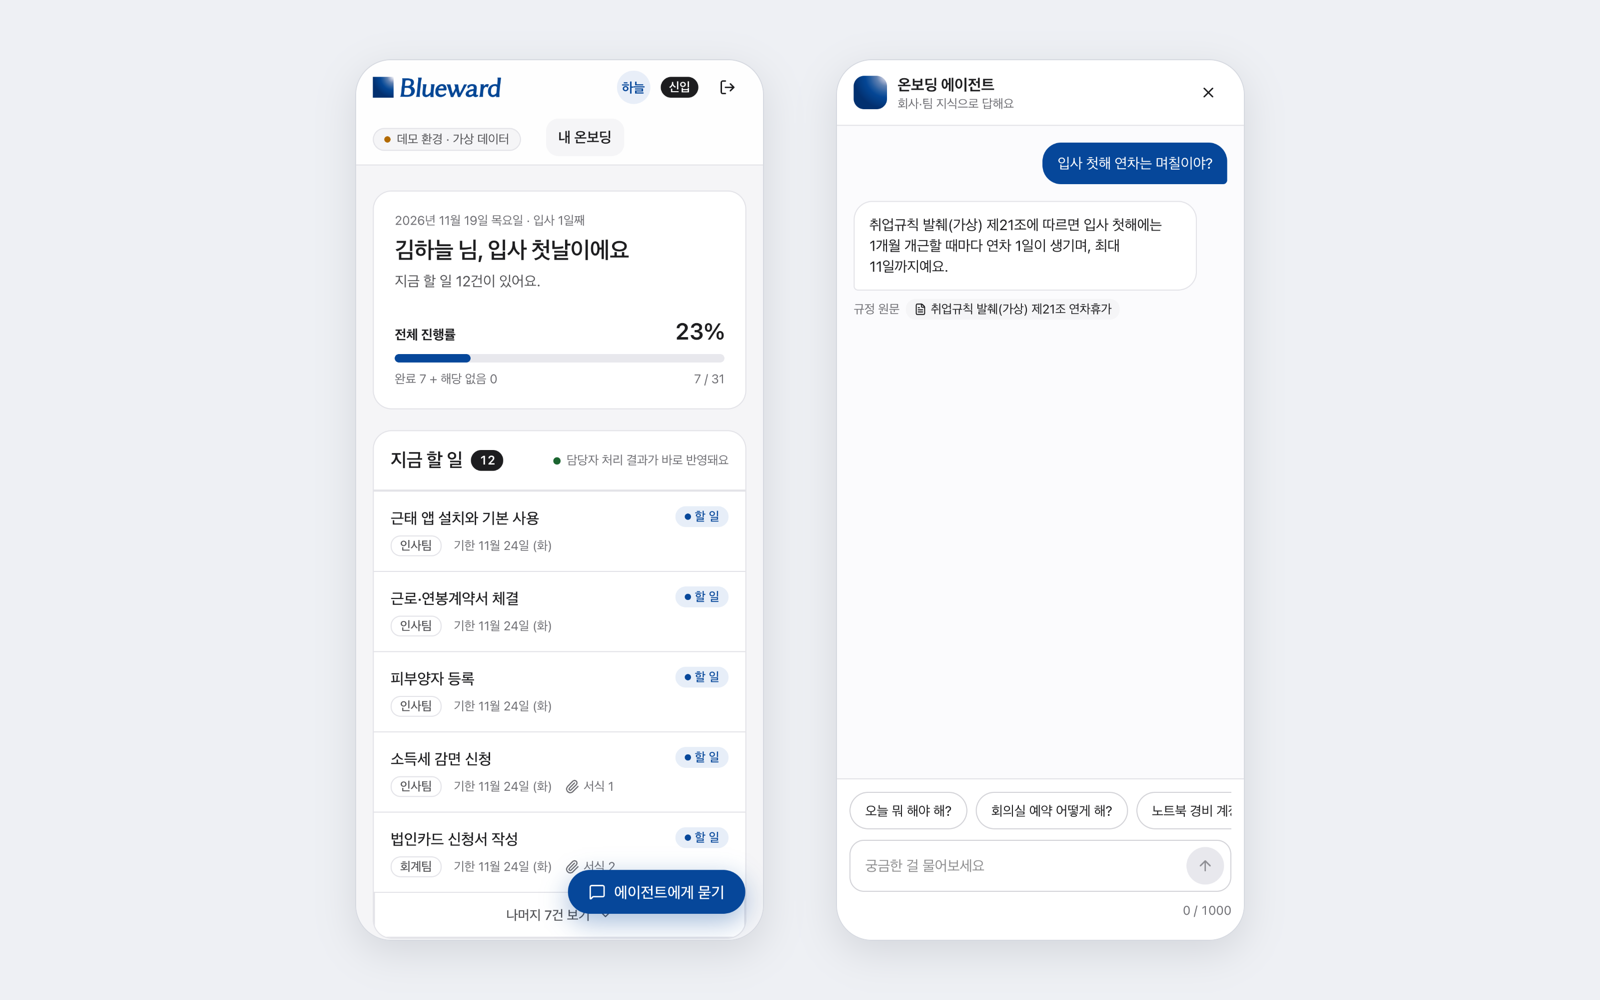
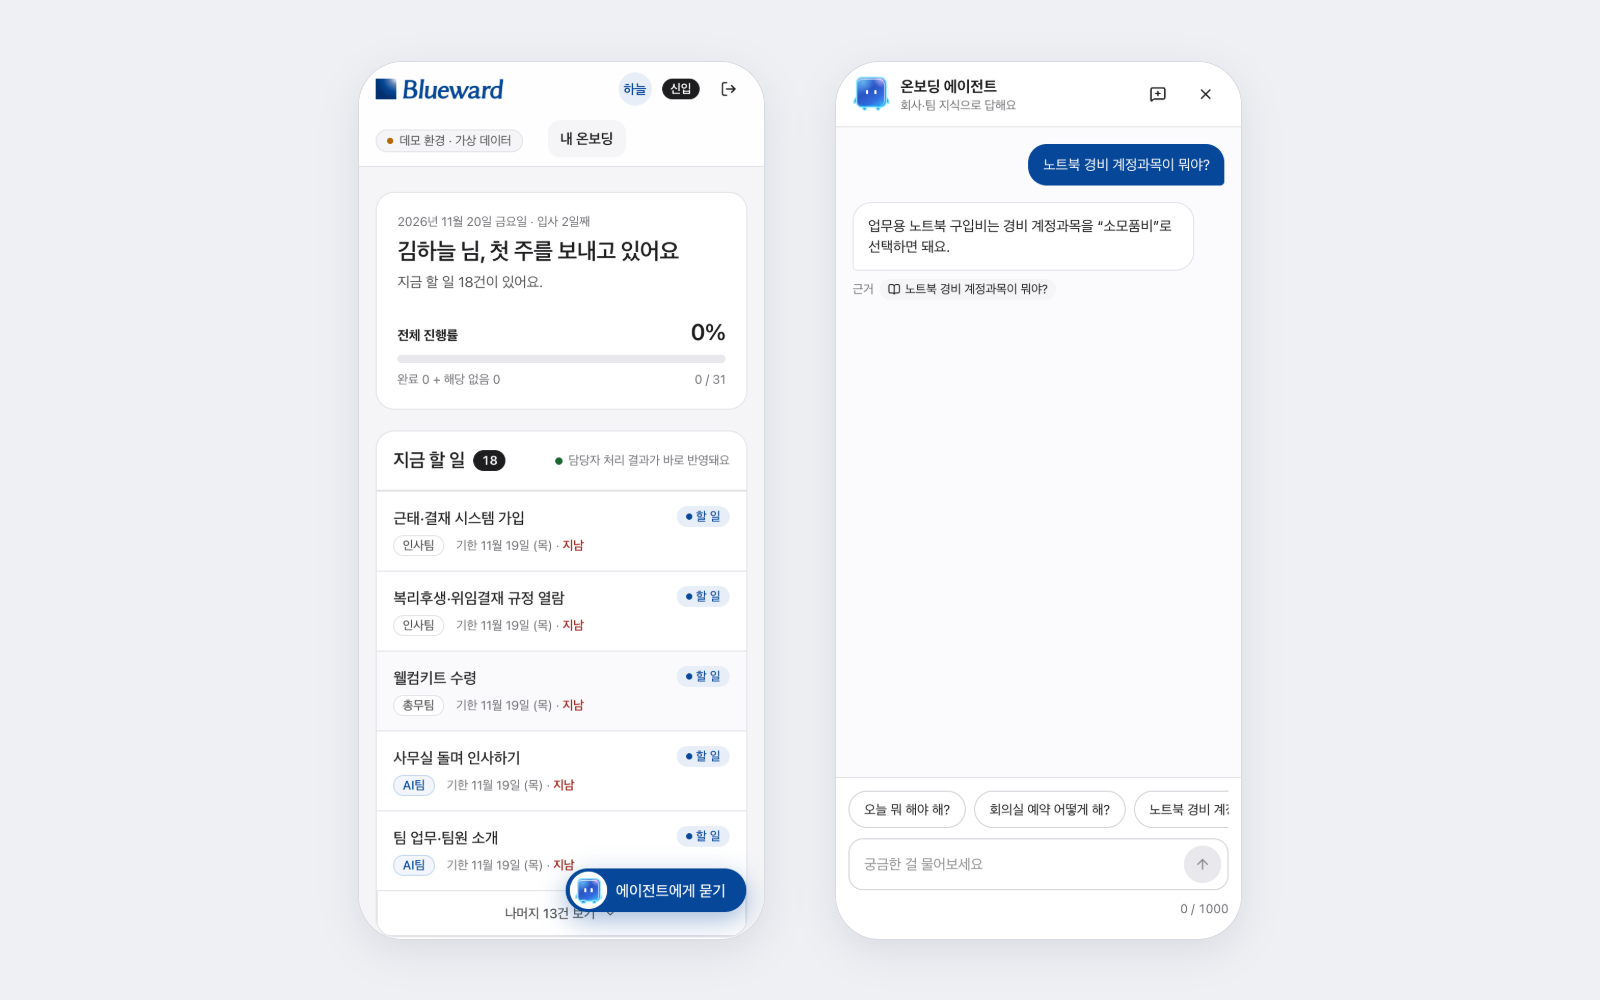
docs: update the README for v0.2.0 with the jelly cube mascot (#95)
- Production version v0.2.0 and a "what changed in v0.2.0" table
  (mascot, new chat, ops hire tab, phone-width fixes, document name fix)
- New "에이전트 마스코트" section with poses, places and two images
- Retook the hero, mobile and ops hire-tab screenshots on production v0.2.0
- Removed the "만든 방식" section

diff --git a/README.md b/README.md
@@ -4,13 +4,23 @@
 
 | 운영 버전 | 접속 주소 | 운영 기간 |
 |---|---|---|
-| `v0.1.0` (2026-11-19) | https://blueward-onboarding.web.app | 2026-11-19 ~ 2026-12-19 |
+| `v0.2.0` (2026-11-20) | https://blueward-onboarding.web.app | 2026-11-19 ~ 2026-12-19 |
 
 사내 AI Agent 경진대회 출품작입니다. 화면에는 회사 CI(Blueward)를 썼고, 사람·계정·과제·지식·규정 문서는 전부 가상 데이터입니다. 역할별 계정과 체험 순서는 [심사위원 안내](docs/judge-guide.md)를 보면 됩니다.
 
-![신입 홈: 입사일·첫 주·첫 달 타임라인과 오른쪽 에이전트 채팅. 규정 조항을 근거로 답하고 출처를 붙인다](docs/images/newhire-home-chat.png)
+![신입 홈: 입사일·첫 주·첫 달 타임라인과 오른쪽 에이전트 채팅. 젤리 큐브 마스코트가 채팅 머리에 있고, 규정 조항을 근거로 답하고 출처를 붙인다](docs/images/newhire-home-chat.png)
 
-<sub>운영 v0.1.0 화면. 신입이 "결혼하면 경조금 얼마 받아?"라고 묻자 에이전트가 복리후생 규정(가상) 제8조를 찾아 답하고 출처를 달았습니다. 이 문서의 화면은 모두 운영 환경에서 가상 데이터로 찍었습니다.</sub>
+<sub>운영 v0.2.0 화면. 신입이 "입사 첫해 연차는 며칠이야?"라고 묻자 에이전트가 취업규칙 발췌(가상) 제21조를 찾아 답하고 출처를 달았습니다. 채팅 머리의 젤리 큐브가 온보딩 에이전트입니다. 따로 적지 않은 화면은 모두 운영 환경에서 가상 데이터로 찍었습니다.</sub>
+
+## v0.2.0에서 달라진 점
+
+| 구분 | 내용 |
+|---|---|
+| 새 마스코트 | 온보딩 에이전트의 얼굴로 젤리 큐브 캐릭터를 넣었습니다. 로그인 화면, 채팅, 모바일 "에이전트에게 묻기" 버튼, 모든 과제 완료 화면, 브라우저 탭 아이콘에 나옵니다([아래](#에이전트-마스코트)) |
+| 채팅 "새 대화" | 신입 채팅 위쪽의 "새 대화" 버튼으로 새로고침 없이 대화를 비우고 처음부터 물을 수 있습니다. 대화는 저장하지 않으므로 누르기 전에 한 번 확인합니다 |
+| 업무함 "입사자별" 탭 | 경영지원 담당자가 부서 업무함에서 신입별 진행률과 확인 대기를 보고, 신입 줄의 "과제 추가"로 그 신입에게만 과제를 줍니다 |
+| 모바일 화면 | 휴대폰 폭(360·390px)에서 모든 화면이 가로로 밀리지 않게 고쳤습니다. 좁은 화면에서는 표의 보조 칸을 제목 아래 한 줄로 옮깁니다 |
+| 규정 문서 올리기 | 문서 이름을 먼저 입력하고 파일을 골라도 입력한 이름이 유지됩니다(전에는 파일 이름으로 덮어써짐) |
 
 ## 왜 만들었나
 
@@ -31,7 +41,8 @@
 
 - 과제 상세에서 Word·Excel·PDF 서식을 내려받아 작성 후 제출. 원본 서류는 받지 않고 제출 여부만 확인
 - 채팅은 게시된 사내 지식, 규정 문서 조항, 본인 과제만 근거로 쓰고 출처를 표시. 근거가 없으면 "확인되지 않은 내용이에요."라고 답하고, 담당자에게 넘길지는 신입이 정함
-- 휴대폰 화면 지원(채팅은 "에이전트에게 묻기" 버튼)
+- "새 대화" 버튼으로 대화를 비우고 다시 시작. 대화 내용은 어디에도 저장하지 않음
+- 휴대폰 화면 지원(채팅은 마스코트가 붙은 "에이전트에게 묻기" 버튼)
 
 <table>
   <tr>
@@ -40,7 +51,7 @@
   </tr>
   <tr>
     <td width="50%"><img src="docs/images/newhire-unanswered.png" alt="근거가 없는 질문에 확인되지 않은 내용이라고 답하고 담당자에게 등록 요청 버튼을 보여 줌"><br><sub>근거가 없으면 지어내지 않고, 신입이 원하면 담당자에게 등록 요청</sub></td>
-    <td width="50%"><img src="docs/images/newhire-mobile.png" alt="모바일 신입 화면과 모바일 채팅: 취업규칙 조항을 근거로 연차를 답함"><br><sub>모바일: 지금 할 일과 채팅(취업규칙 제21조 근거)</sub></td>
+    <td width="50%"><img src="docs/images/newhire-mobile.png" alt="모바일 신입 화면과 모바일 채팅: 마스코트가 붙은 에이전트에게 묻기 버튼, 등록된 지식을 근거로 노트북 경비 계정과목을 답함"><br><sub>모바일: 지금 할 일과 "에이전트에게 묻기", 채팅(등록된 지식 근거)</sub></td>
   </tr>
 </table>
 
@@ -51,16 +62,20 @@
 - 회사 공통 규정 문서(docx·pdf)를 올리면 조항 단위로 나뉘어 신입 채팅의 근거가 됨
 - "지식 초안 만들기"로 조항 근거 질문·답 초안을 5개까지 생성. 검토하고 게시해야 신입에게 보임
 - 온보딩 과제 화면에서 부서 과제를 추가·수정·보관하고 서식 첨부. 진행 중인 신입이 있으면 제목과 안내문만 수정 가능하고, 새 과제는 그 뒤에 시작하는 신입부터 적용
-- 신입 한 명에게만 과제 추가 가능
+- "입사자별" 탭에서 신입마다 우리 부서 과제 진행률과 확인 대기를 보고, 그 줄의 "과제 추가"로 그 신입에게만 과제 추가
 
 <table>
   <tr>
-    <td width="50%"><img src="docs/images/ops-inbox.png" alt="총무팀 업무함: 신입이 제출한 명함 신청을 확인하거나 보완 요청"><br><sub>부서 업무함: 제출 내용을 보고 확인(완료 처리) 또는 보완 요청</sub></td>
-    <td width="50%"><img src="docs/images/ops-documents.png" alt="규정 문서: 복리후생 규정(가상)을 조항 16개로 나눠 둔 화면"><br><sub>규정 문서: 올린 문서를 조항으로 나누고 "지식 초안 만들기"</sub></td>
+    <td width="50%"><img src="docs/images/ops-inbox.png" alt="총무팀 업무함: 신입이 제출한 명함 신청을 확인하거나 보완 요청"><br><sub>부서 업무함: 제출 내용을 보고 확인(완료 처리) 또는 보완 요청(v0.1.0 화면)</sub></td>
+    <td width="50%"><img src="docs/images/ops-hires.png" alt="총무팀 업무함 입사자별 탭: 신입별 총무팀 과제 진행률, 확인 대기, 과제 추가 버튼"><br><sub>입사자별 탭: 신입별 진행률을 보고 그 줄에서 "과제 추가"</sub></td>
   </tr>
   <tr>
+    <td width="50%"><img src="docs/images/ops-documents.png" alt="규정 문서: 복리후생 규정(가상)을 조항 16개로 나눠 둔 화면"><br><sub>규정 문서: 올린 문서를 조항으로 나누고 "지식 초안 만들기"</sub></td>
     <td width="50%"><img src="docs/images/ops-knowledge-drafts.png" alt="지식 관리: 규정 조항을 근거로 만든 AI 작성 초안 목록"><br><sub>지식 관리: 근거 조항이 붙은 "AI 작성" 초안을 검토하고 게시</sub></td>
+  </tr>
+  <tr>
     <td width="50%"><img src="docs/images/staff-tasks.png" alt="온보딩 과제: 진행 중인 신입이 있어 제목·안내문만 고칠 수 있는 과제"><br><sub>온보딩 과제: 진행 중인 신입이 있으면 제목·안내문만 수정</sub></td>
+    <td width="50%"></td>
   </tr>
 </table>
 
@@ -98,6 +113,27 @@
   </tr>
 </table>
 
+## 에이전트 마스코트
+
+v0.2.0부터 반투명한 파란 젤리 큐브가 온보딩 에이전트의 얼굴로 등장합니다. 에이전트가 있는 자리에만 나오므로, 신입은 "여기에 물어보면 된다"는 것을 바로 알 수 있습니다. 회사 로고와 대표색은 그대로 두고, 마스코트가 CI를 대신하지 않습니다.
+
+| 포즈 | 뜻 | 나오는 곳 |
+|---|---|---|
+| 서 있기 | 에이전트 | 채팅 머리 |
+| 손 흔들기 | 환영·완료 | 로그인 화면, 채팅 대화 전 소개, 모든 과제를 끝낸 신입 홈 |
+| 앉기 | 버튼·기다림 | 모바일 "에이전트에게 묻기" 버튼, 답변을 기다리는 말풍선 |
+
+- 이미지 파일이 아니라 CSS로 그려서 크기가 달라도 선명합니다. 브라우저 탭 아이콘과 휴대폰 홈 화면 아이콘도 같은 디자인입니다.
+- 로그인 화면과 채팅 대화 전 소개처럼 크게 나오는 자리에서는 살짝 움직이고, 로그인 화면의 마스코트는 누르면 튀어 오릅니다. 기기에서 동작 줄이기를 켜면 움직이지 않습니다.
+- 장식용이라 화면 읽기 프로그램은 읽지 않고, 키보드 초점도 받지 않습니다.
+
+<table>
+  <tr>
+    <td width="50%"><img src="docs/images/mascot-login.png" alt="로그인 화면: 왼쪽 소개 영역에서 젤리 큐브 마스코트가 손을 흔듦"><br><sub>로그인 화면: 넓은 화면에서 손을 흔드는 마스코트(누르면 튐)</sub></td>
+    <td width="50%"><img src="docs/images/mascot-chat.png" alt="채팅 머리와 대화 전 소개, 답변 기다림 말풍선, 모바일 에이전트에게 묻기 버튼의 마스코트"><br><sub>채팅 머리·대화 전 소개, 답변 기다림, 모바일 "에이전트에게 묻기"</sub></td>
+  </tr>
+</table>
+
 ## AI가 하는 일과 사람이 하는 일
 
 | AI 에이전트 | 사람(담당자) |
@@ -113,11 +149,7 @@
 
 AI는 사용자 한 명이 하루에 채팅 50회, 시험 생성 10회, 규정 문서 처리 20회, 초안 생성 30회까지 쓸 수 있고, 채팅 내용은 저장하지 않습니다. 올릴 수 있는 파일은 가상 서식과 가상 규정 문서뿐입니다. docx·xlsx·pdf 형식에 10MB까지 받으며, 업로드 화면마다 실제 문서나 개인정보를 올리지 말라는 안내를 붙였습니다.
 
-심사위원이 쓰는 운영 환경은 개발 환경과 분리했습니다. 스테이징에서 확인한 버전만 승인을 거쳐 올라가고, 지금은 v0.1.0입니다. 배포할 때마다 로그인과 권한, 화면을 자동으로 점검하며 공개 기간에는 첫 접속이 느리지 않게 서버를 켜 둡니다.
-
-## 만든 방식
-
-기획과 결정, 승인은 사람이 했고 구현과 코드 리뷰는 AI 에이전트가 맡았습니다. Claude Code로 공통 기반을 만든 뒤 신입·담당자·채팅·시험·과제 관리·규정 문서 기능을 여러 세션이 동시에 나눠 개발했는데, 기능마다 테스트를 먼저 썼고 모든 변경은 Codex 코드 리뷰를 통과해야 들어갔습니다. 공개 전에는 실제 화면에서 시연 흐름 전체와 접근 차단·권한·장애 상황을 점검했고, 결과는 [시연 스크립트](docs/demo-script.md)에 남겼습니다.
+심사위원이 쓰는 운영 환경은 개발 환경과 분리했습니다. 스테이징에서 확인한 버전만 승인을 거쳐 올라가고, 지금은 v0.2.0입니다. 배포할 때마다 로그인과 권한, 화면을 자동으로 점검하며 공개 기간에는 첫 접속이 느리지 않게 서버를 켜 둡니다.
 
 ## 확장 계획
 
